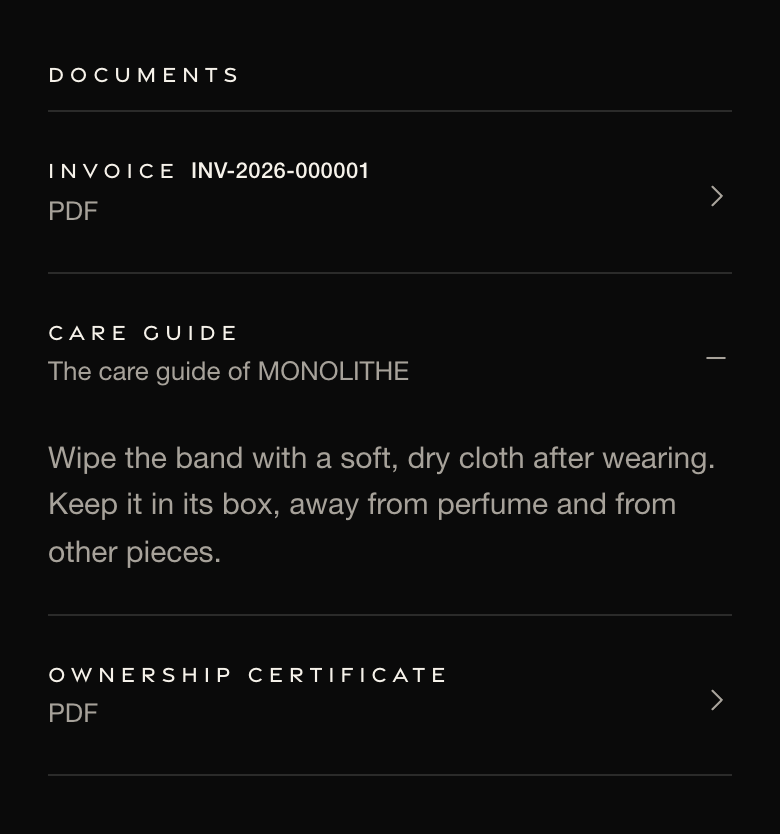
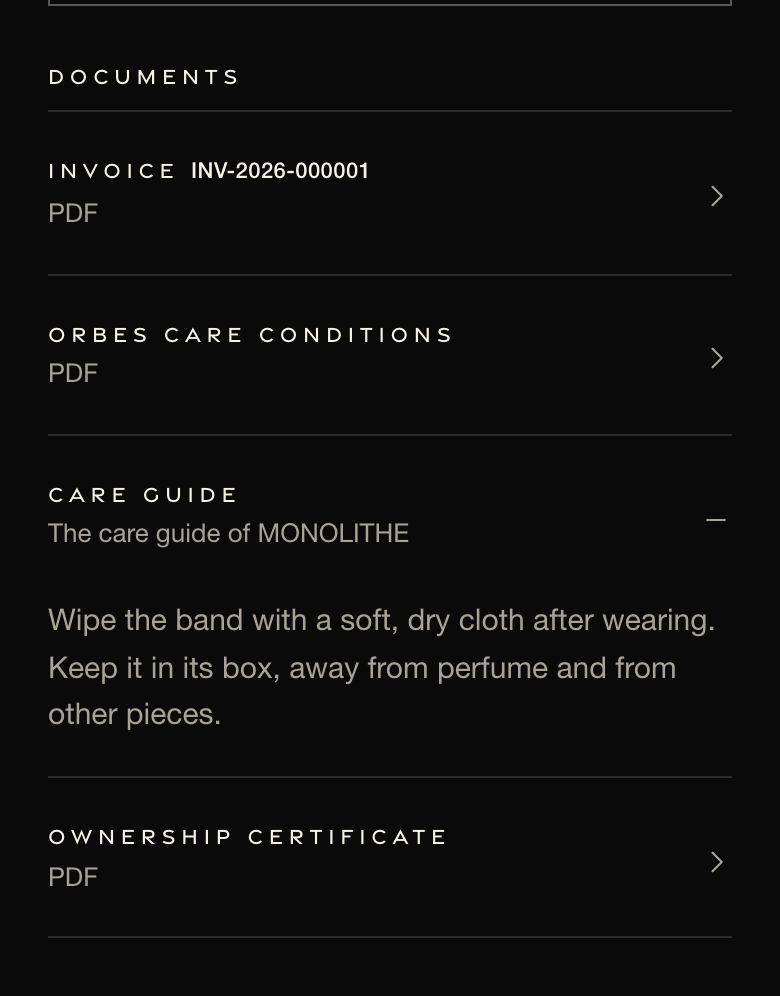
CARE-6: the finish re-captures the BRAND images of the ORBES CARE tab (verify-06 the tab whole, verify-07 its CARING FOR THIS PIECE) and of an order's DOCUMENTS with ORBES CARE CONDITIONS (plus-13), their captions naming ORBES CARE, LEGAL_VERSION staying 2026-10-15, the date of this commit.
- scripts/capture-ui.ts: on the scan result's ORBES CARE tab, verify-06-tab-warranty is the tab whole (its WARRANTY
  first) and verify-07-tab-care its CARING FOR THIS PIECE band; S2b had dropped verify-06 and left verify-07 as the
  whole tab, so docs/BRAND-DESIGN-SYSTEM.md linked a picture of the removed WARRANTY tab (plan §2(e): "the images are
  re-captured in step 6"). The other file names are kept.
- docs/assets/ui/verify-06-tab-warranty.png, verify-07-tab-care.png (default capture run) and plus-13-order-documents.png
  (--only plus) re-captured; the three were looked at: ACTIVE · LIFETIME, FROM, the lifetime sentence, CARING FOR THIS
  PIECE, the contact sentence; INVOICE, ORBES CARE CONDITIONS, CARE GUIDE, OWNERSHIP CERTIFICATE.
- docs/BRAND-DESIGN-SYSTEM.md: verify-06's alt text says what the new image shows, and the caption under the pair reads
  ORBES CARE (it still said WARRANTY and CARE, a line §2(e) names at :980 that 4.2 left).
- LEGAL_VERSION and CARE_CONDITIONS_VERSION are 2026-10-15 already (step 4.1), the date of this commit: unchanged.

Boards: unchanged by this step (the NOCTURNE baseline's git diff against HEAD~1 is empty; a full recording of HEAD in the
dark look equals the committed baseline value for value, 261 states, 10,732 values). Against 90d9d30, text-diffed in
both looks (dark NOCTURNE and light): the same 64 existing states change in each look, 10 states are new (step 5.1),
[…]

diff --git a/genome/scripts/capture-ui.ts b/genome/scripts/capture-ui.ts
@@ -394,16 +394,18 @@ async function captureVerify(stage: Stage, shots: Shots, workDir: string): Promi
     if (state !== 'AUTHENTIC_FIRST_REGISTRATION') throw new Error(`${FIRST_REGISTRATION} verified as ${state}`);
     await shots.full(page, 'verify-04-result-first-registration');
 
+    // ORBES CARE (plan of 2026-10-15) holds the warranty: verify-06 is that tab whole (its WARRANTY first), verify-07
+    // its CARING FOR THIS PIECE; the old file names kept.
     const tabs: [string, string][] = [
       ['product', 'verify-05-tab-product'],
-      // ORBES CARE (plan of 2026-10-15) holds the warranty: no WARRANTY tab, so no verify-06; the old file names kept.
-      ['care', 'verify-07-tab-care'],
+      ['care', 'verify-06-tab-warranty'],
       ['ownership', 'verify-08-tab-ownership'],
     ];
     for (const [id, name] of tabs) {
       await page.click(`#tab-${id}`);
       await sleep(900); // panel fade (0.7 s), underline draw
       await shots.region(page, '.n-result__tabs', name);
+      if (id === 'care') await shots.region(page, '.n-result__care-guide', 'verify-07-tab-care');
     }
     await context.close();
   } finally {

diff --git a/docs/BRAND-DESIGN-SYSTEM.md b/docs/BRAND-DESIGN-SYSTEM.md
@@ -978,11 +978,11 @@ The client recomputes the genome from the glyphs it received and draws the orbit
 <table>
 <tr>
 <td width="50%"><img src="assets/ui/verify-05-tab-product.png" width="330" alt="PRODUCT tab: product rows and VERIFICATION rows"></td>
-<td width="50%"><img src="assets/ui/verify-06-tab-warranty.png" width="330" alt="The ORBES CARE tab, its WARRANTY: status ACTIVE, from and until dates, one sentence"><br><br><img src="assets/ui/verify-07-tab-care.png" width="330" alt="The ORBES CARE tab, CARING FOR THIS PIECE: care instructions in prose"></td>
+<td width="50%"><img src="assets/ui/verify-06-tab-warranty.png" width="330" alt="The ORBES CARE tab: its WARRANTY (status ACTIVE · LIFETIME, from its date, the sentence of its kind), CARING FOR THIS PIECE and the contact sentence"><br><br><img src="assets/ui/verify-07-tab-care.png" width="330" alt="The ORBES CARE tab, CARING FOR THIS PIECE: care instructions in prose"></td>
 </tr>
 <tr>
 <td valign="top"><b>PRODUCT.</b> Facts as label/value rows (a DISCONTINUED row with the year once its model is discontinued, P-R06), then VERIFICATION: signature, code version and issue, genome version, issue date, assurance. This is where the technology lives, in plain words.</td>
-<td valign="top"><b>WARRANTY</b> and <b>CARE.</b> Status rows with one explanatory sentence; care as prose from the model (a default text otherwise).</td>
+<td valign="top"><b>ORBES CARE.</b> The warranty's status rows with the sentence of its kind (ACTIVE · LIFETIME without an end date, or ACTIVE until its date); CARING FOR THIS PIECE as prose from the model (a default text otherwise); then the sentence that ORBES Client Services answers in MESSAGES.</td>
 </tr>
 <tr>
 <td colspan="2"><img src="assets/ui/verify-08-tab-ownership.png" width="330" alt="OWNERSHIP tab: REGISTRATION OPEN, sign-in form"><br><b>OWNERSHIP.</b> Registration with the claim code from the certificate card, sign-in or account creation, transfer codes, and RECEIVING THIS PIECE for the piece scanned only (F-03, §4.4); under sign-in, FORGOTTEN PASSWORD? (ORBES Client Services, then the recovery code), and, signed in, MY PIECES beside SIGN OUT (§4.4). Fields are single hairlines; errors are one sentence preceded by an em dash; secrets are never stored beyond the form.</td>
